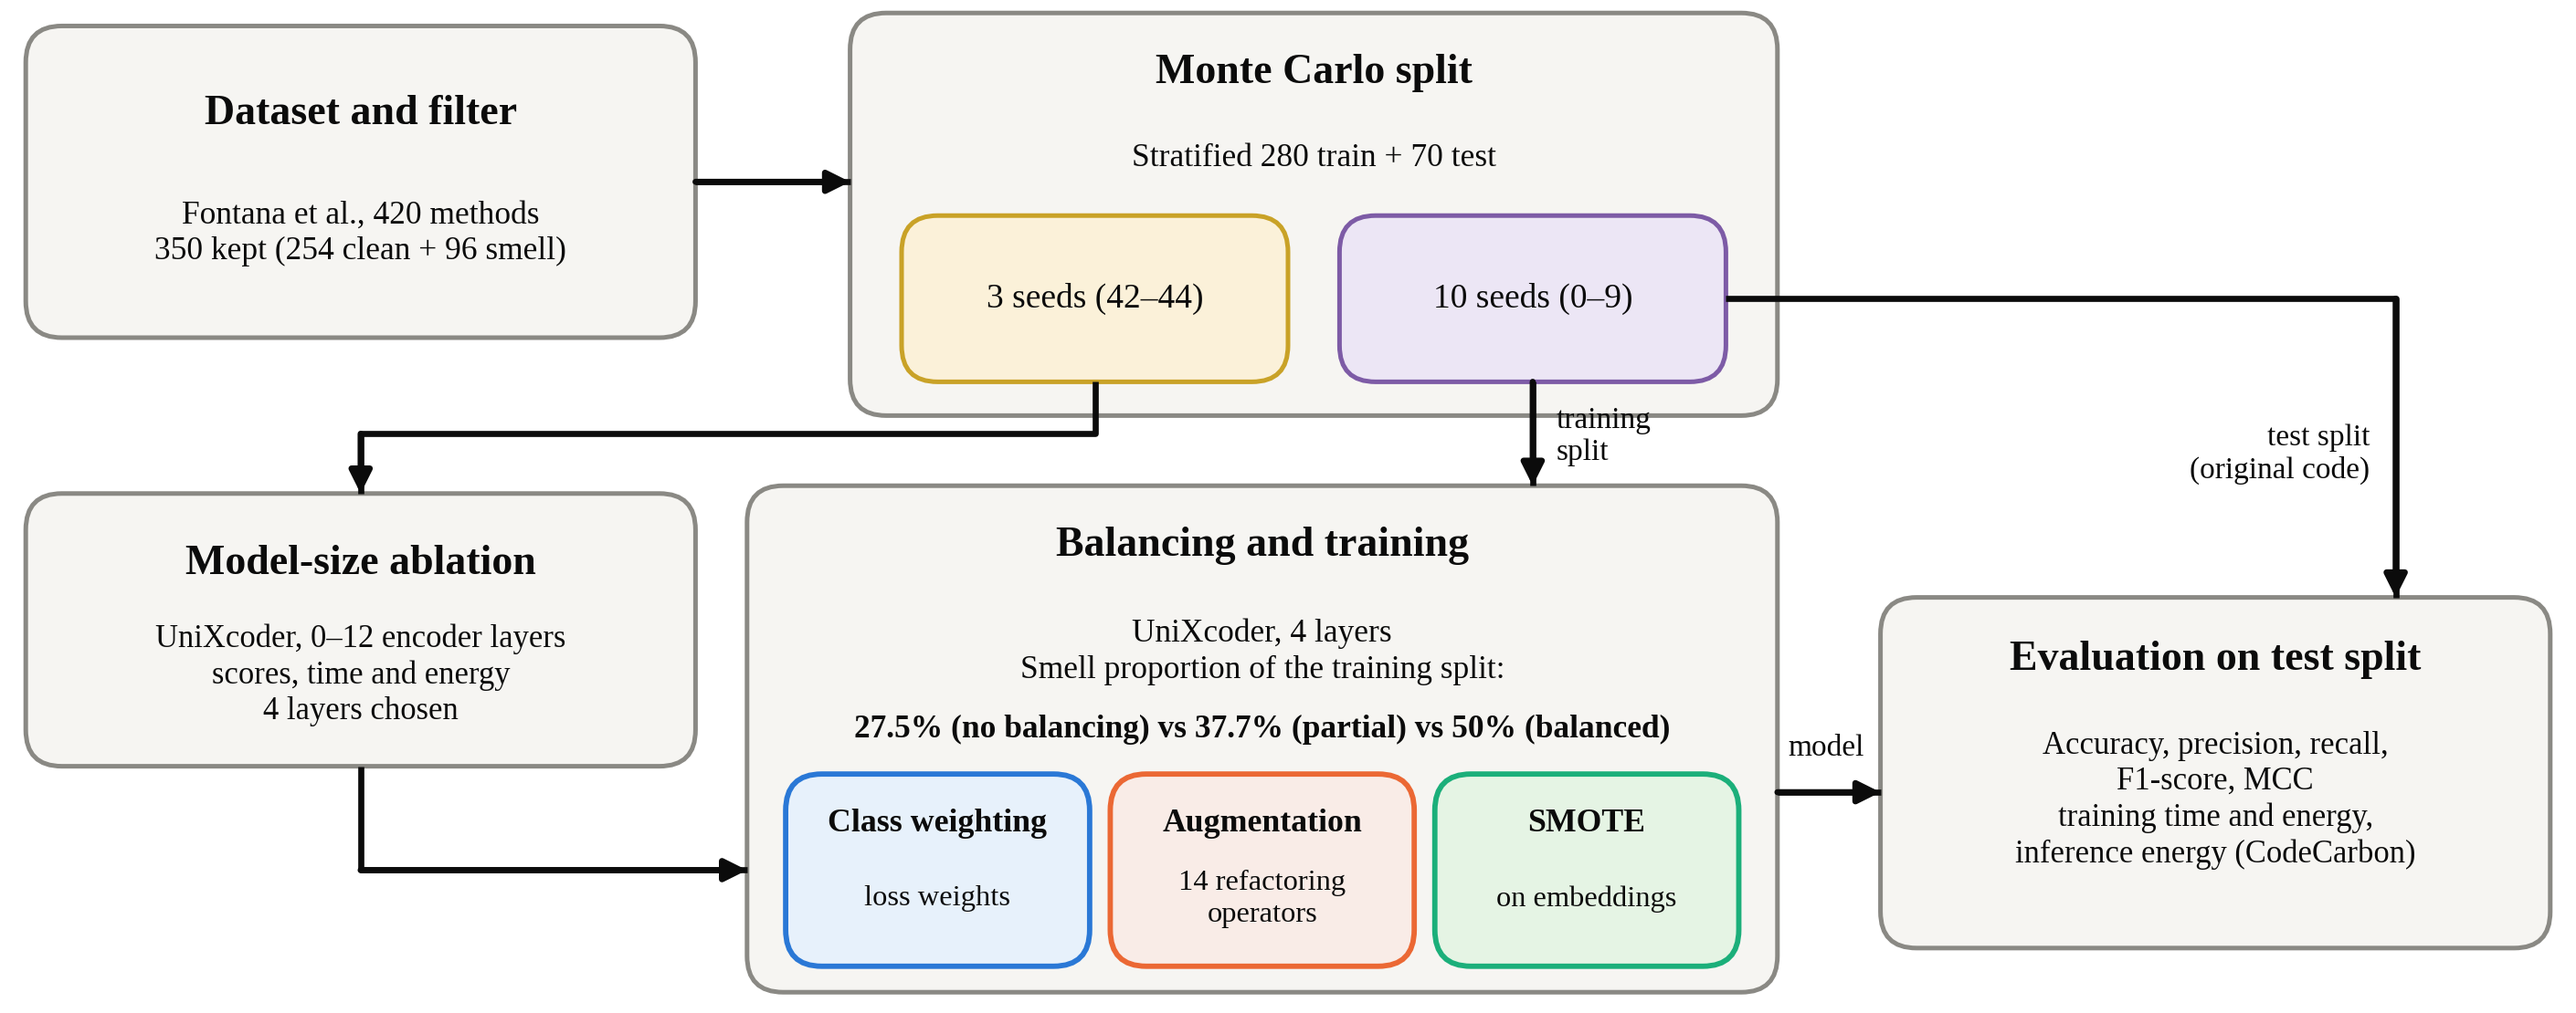
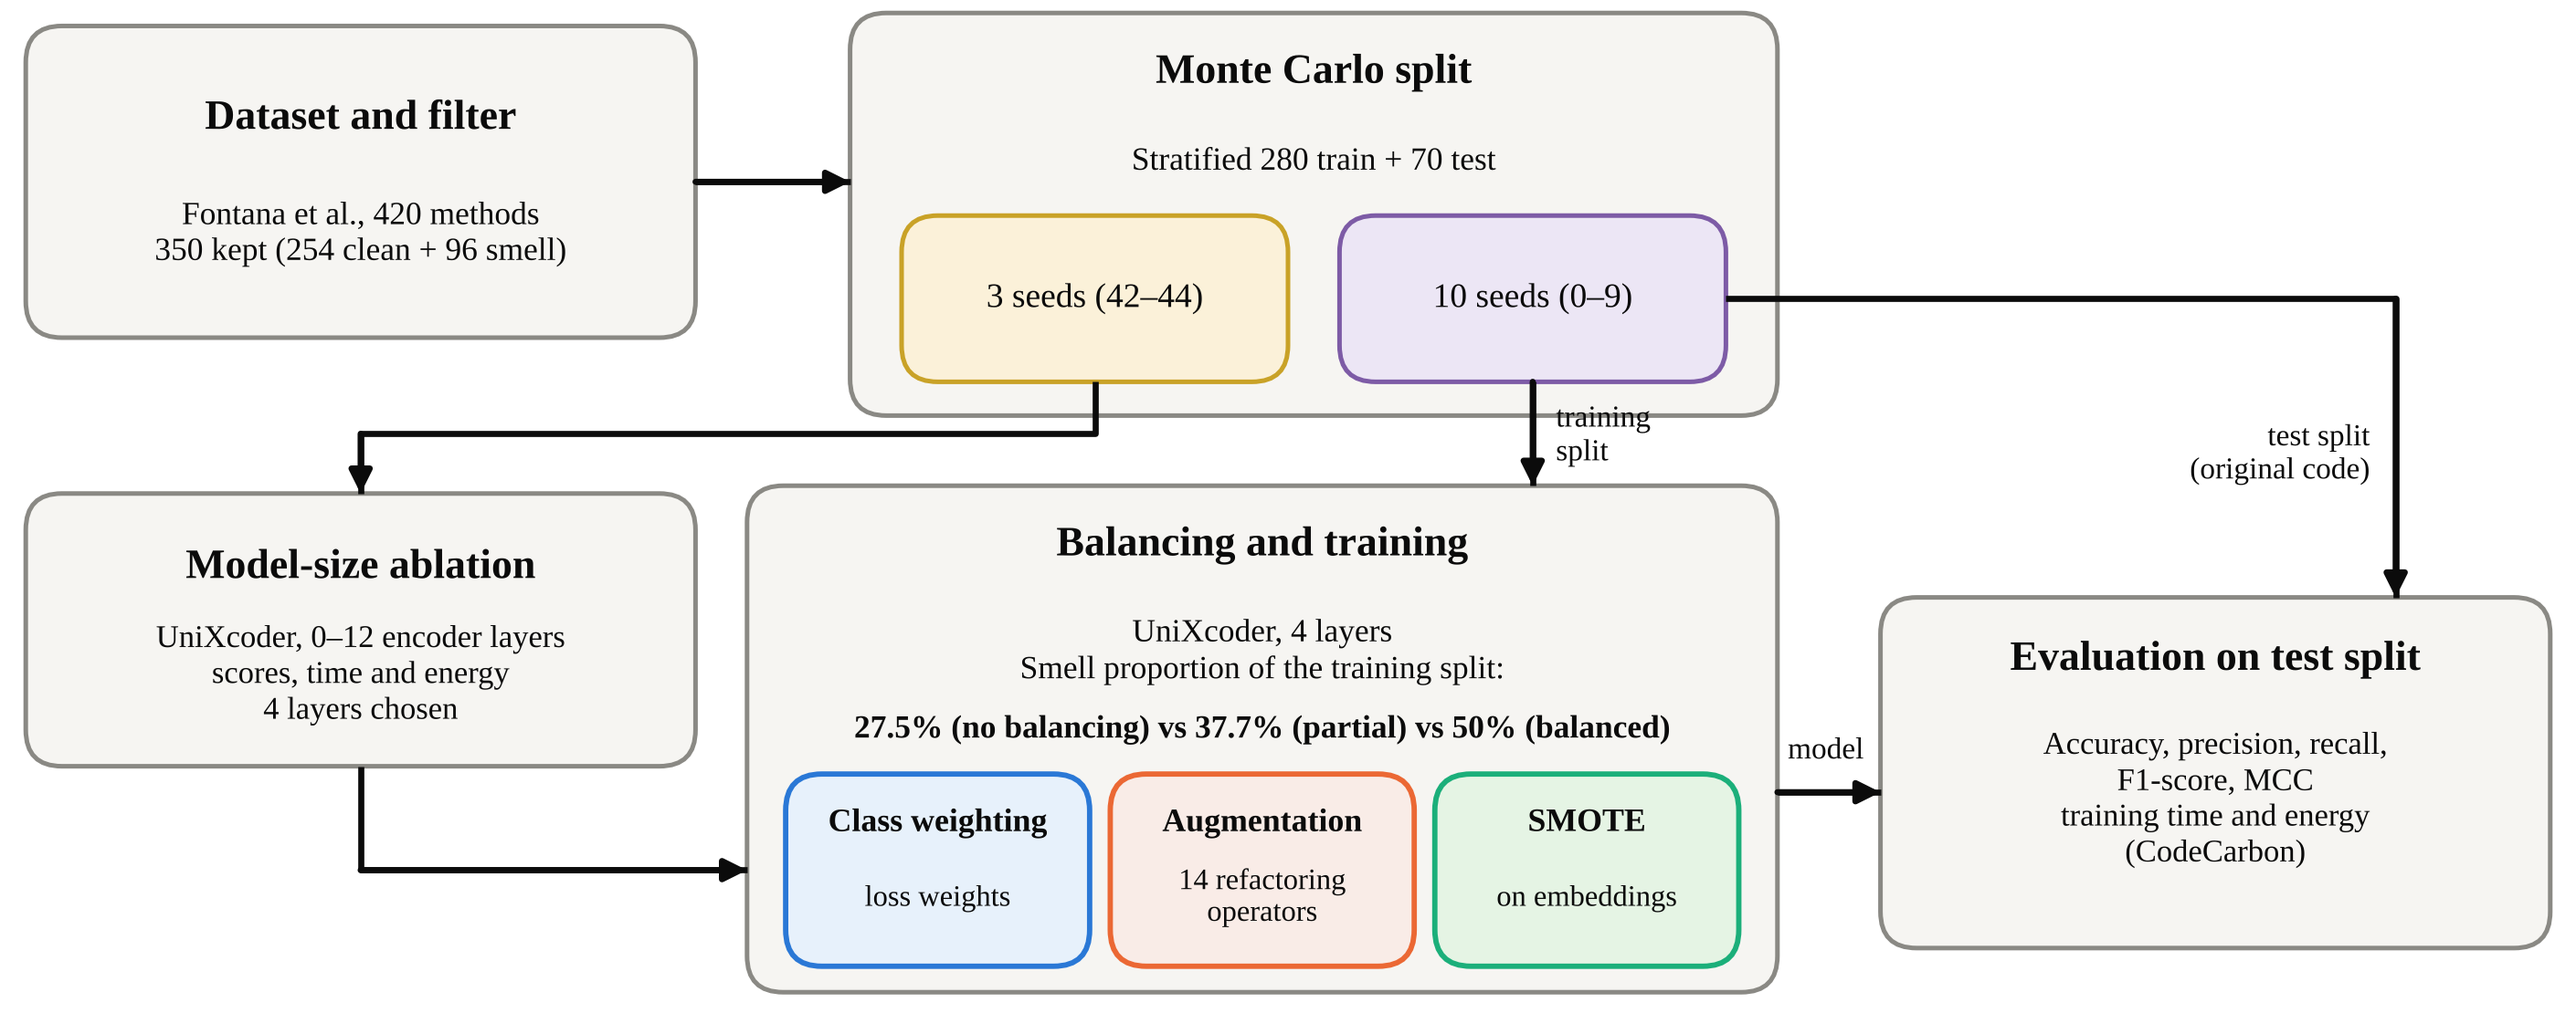
Energy figure labels points directly; study flow without inference energy
Claude-Session: https://claude.ai/code/session_017rhwVyM5rhv5k17AN45Ux5

diff --git a/scripts/5_plots.py b/scripts/5_plots.py
@@ -209,15 +209,12 @@ def energy_style(scenario, share):
 
 def plot_energy_pareto(rows, energy_rows, out):
     """Mean F1-score (seeds 0-9) against mean training energy per run (CodeCarbon, GPU + CPU +
-    RAM) for every scenario, without spread bars so the y axis can zoom in on the differences
-    between scenarios (Table 3 and Table 4 give the standard deviations). Filled markers: 37.7%
-    smell in the training split, hollow: 50%. The dashed steps join the Pareto-optimal scenarios,
-    those no other scenario beats on both lower energy and higher F1-score. The legend follows
-    the rows of Table 3: the unbalanced runs, then one column per balancing method."""
+    RAM) for every scenario, each point labelled beside its marker. No spread bars, so the y axis
+    zooms in on the differences between scenarios (Tables 3 and 4 give the standard deviations).
+    Filled markers: 37.7% smell in the training split, hollow: 50%."""
     plt = setup()
-    from matplotlib.lines import Line2D
-    fig, ax = plt.subplots(figsize=(6.4, 4.4))
-    points, found = [], {}
+    fig, ax = plt.subplots(figsize=(6.4, 4.2))
+    points = []
     for scenario, share, name, _, layers in ENERGY_ROWS:
         energy = energy_totals(energy_rows, scenario, share, layers)
         f1 = [float(r["f1"]) for r in rows
@@ -230,34 +227,20 @@ def plot_energy_pareto(rows, energy_rows, out):
             marker, color, filled = "s", INK, True
         ax.plot([x], [y], marker=marker, markersize=9, linestyle="none", zorder=3, color=color,
                 markerfacecolor=color if filled else "white", markeredgecolor=color, markeredgewidth=1.6)
-        found[(scenario, share, layers)] = Line2D(
-            [], [], marker=marker, linestyle="none", markersize=7, color=color,
-            markerfacecolor=color if filled else "white", markeredgecolor=color, markeredgewidth=1.5,
-            label=name.replace(" (SMOTE control)", "").replace(", 12 layers", " (12 layers)"))
-        points.append((x, y))
-    # Pareto front: going up in energy, keep each scenario that beats every cheaper one on F1-score
-    front, best = [], -1.0
-    for x, y in sorted(points):
-        if y > best:
-            front.append((x, y))
-            best = y
-    if len(front) > 1:
-        ax.step([p[0] for p in front], [p[1] for p in front], where="post", color=MUTED, linewidth=1,
-                linestyle=(0, (4, 3)), zorder=2)
+        points.append((x, y, scenario, name.replace(" (SMOTE control)", "").replace(", 12 layers", " (12 layers)")))
+    # Runs that share the no-balancing energy sit in one column: SMOTE is labelled on the right,
+    # the others on the left; the far right point (12 layers) is labelled on its left
+    right_edge = max(p[0] for p in points)
+    for x, y, scenario, label in points:
+        left = (x < 4 and scenario != "smote") or x == right_edge
+        ax.text(x - 0.18 if left else x + 0.18, y, label, ha="right" if left else "left", va="center",
+                fontsize=8.5, color=INK)
     ys = [p[1] for p in points]
-    pad = max(0.01, 0.15 * (max(ys) - min(ys)))
+    pad = max(0.01, 0.12 * (max(ys) - min(ys)))
     ax.set_ylim(min(ys) - pad, max(ys) + pad)
-    ax.set_xlim(left=0)
+    ax.set_xlim(0, right_edge + 0.8)
     ax.set_xlabel("Training energy per run (Wh)", color=MUTED)
     ax.set_ylabel("F1-score on the test split", color=MUTED)
-    # Matplotlib fills legend columns top to bottom: one column for the unbalanced runs (no
-    # balancing, 12 layers, head retrained) and one per balancing method, as in Table 3
-    blank = Line2D([], [], linestyle="none", label=" ")
-    order = [[("none", "27.5", "4"), ("none", "27.5", "12"), ("head", "27.5", "4")]] + [
-        [(m, "37.7", "4"), (m, "50.0", "4")] for m, _, _, _ in METHODS]
-    handles = [found.get(k, blank) for column in order for k in column + [None] * (3 - len(column))]
-    ax.legend(handles=handles, frameon=False, fontsize=7.8, loc="upper center", bbox_to_anchor=(0.5, -0.15),
-              ncol=4, handletextpad=0.3, columnspacing=0.9)
     style(ax, "F1-score versus training energy", grid_axis="both")
     save(plt, fig, out)
 

diff --git a/scripts/7_study_flow.py b/scripts/7_study_flow.py
@@ -6,7 +6,7 @@ and datasets/dataset_seed0.csv (one Monte Carlo split; every seed has the same
 counts): dataset and filter, Monte Carlo split into 3 ablation seeds and 10
 main seeds, the model-size ablation that chose 4 layers, balancing and training
 of the training split at the three smell proportions, and the evaluation on
-the test split (original code), with training and inference energy measured
+the test split (original code), with training time and energy measured
 besides the detection metrics, as the title of the paper promises.
 
 Usage:
@@ -63,7 +63,7 @@ def draw(c, out):
     3 ablation seeds go to the model-size ablation and whose 10 main seeds send the training
     split to balancing and training (fed by the 4 layers the ablation chose) and the test split,
     original code, straight to the evaluation. The evaluation lists the detection metrics and
-    the measured cost: training and inference energy (CodeCarbon) besides time, as in the title."""
+    the measured cost: training time and energy (CodeCarbon), as in the title."""
     import matplotlib
     matplotlib.use("Agg")
     import matplotlib.pyplot as plt
@@ -135,8 +135,7 @@ def draw(c, out):
     # Evaluation on the test split, with the measured cost
     frame(73, 2.5, 26, 13.5)
     label(86, 13.6, "Evaluation on test split", 11, True)
-    label(86, 8.2, "Accuracy, precision, recall,\nF1-score, MCC\ntraining time and energy,\n"
-                   "inference energy (CodeCarbon)", 8.3)
+    label(86, 8.2, "Accuracy, precision, recall,\nF1-score, MCC\ntraining time and energy\n(CodeCarbon)", 8.3)
 
     # Flow
     arrow([(27, 32), (33, 32)])
